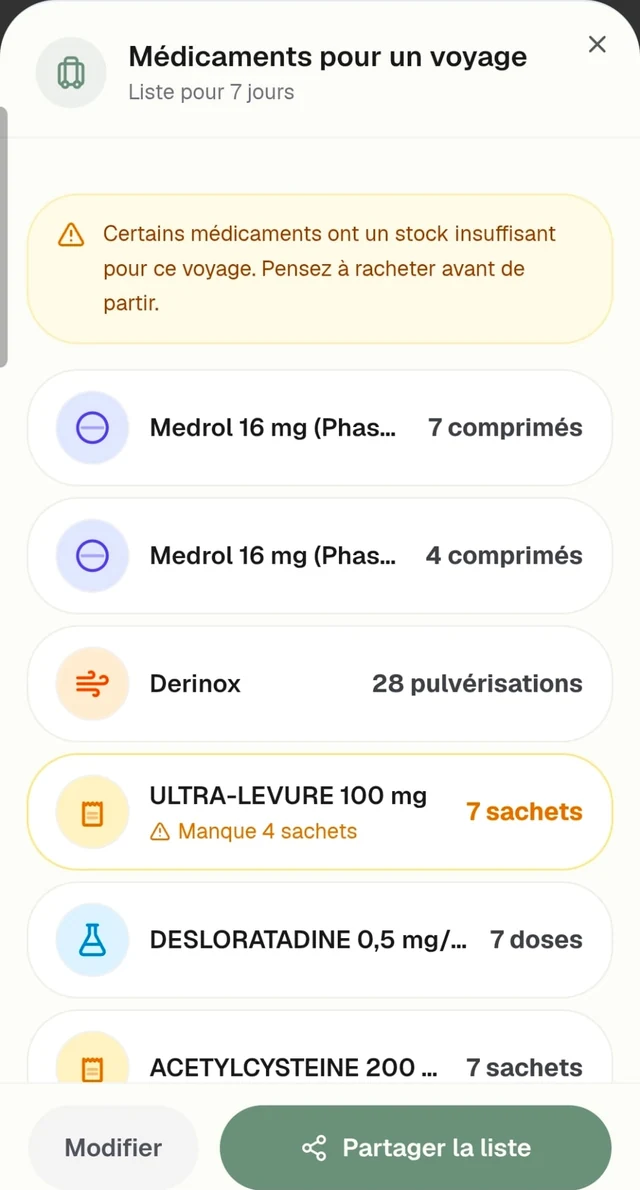
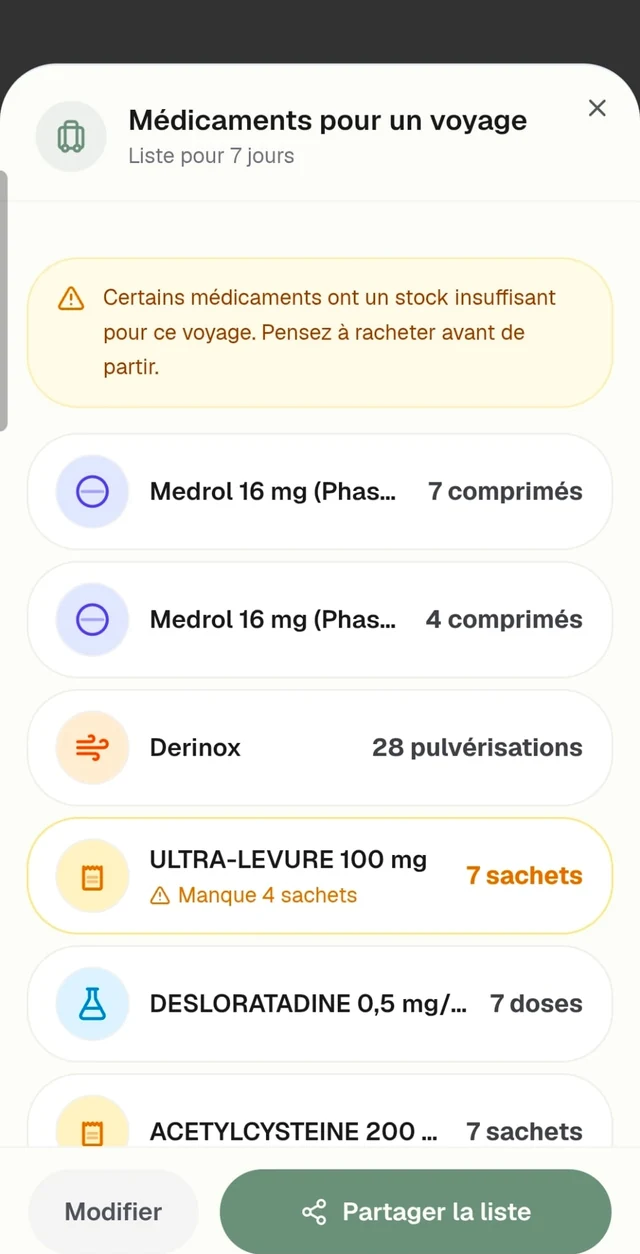
gallery: fix phone proportions to natural aspect ratio, align all 3 screenshots to same height

diff --git a/index.html b/index.html
@@ -518,7 +518,7 @@ footer{background:#0a0f0c;color:white;padding:64px 40px 40px}
 .gallery-phone{width:100%;max-width:260px;background:white;border-radius:44px;border:1px solid rgba(0,0,0,.08);overflow:hidden;position:relative;box-shadow:var(--shadow-xl),0 0 0 1px rgba(255,255,255,.5) inset}
 .gallery-notch{height:28px;background:#f2f4f2;display:flex;align-items:center;justify-content:center}
 .gallery-notch-pill{width:80px;height:9px;background:#d0d8d0;border-radius:5px}
-.gallery-screen{display:block;width:100%;height:400px;object-fit:cover;object-position:top;border-bottom-left-radius:43px;border-bottom-right-radius:43px}
+.gallery-screen{display:block;width:100%;height:auto;border-bottom-left-radius:43px;border-bottom-right-radius:43px}
 .gallery-caption{margin-top:28px;max-width:280px}
 .gallery-title{font-size:18px;font-weight:700;color:var(--ink);letter-spacing:-.4px;margin-bottom:6px}
 .gallery-desc{font-size:14px;color:var(--muted);line-height:1.5}
@@ -644,7 +644,7 @@ footer{background:#0a0f0c;color:white;padding:64px 40px 40px}
       <div class="gallery-item fade-up fade-up-d3">
         <div class="gallery-phone">
           <div class="gallery-notch"><div class="gallery-notch-pill"></div></div>
-          <img class="gallery-screen" src="/pilou-gallery-voyage.webp" alt="Écran trousse de voyage Pilou calculant les quantités de médicaments à emporter" width="640" height="1190" loading="lazy">
+          <img class="gallery-screen" src="/pilou-gallery-voyage.webp" alt="Écran trousse de voyage Pilou calculant les quantités de médicaments à emporter" width="640" height="1254" loading="lazy">
         </div>
         <div class="gallery-caption">
           <div class="gallery-title">Partez l'esprit tranquille</div>
